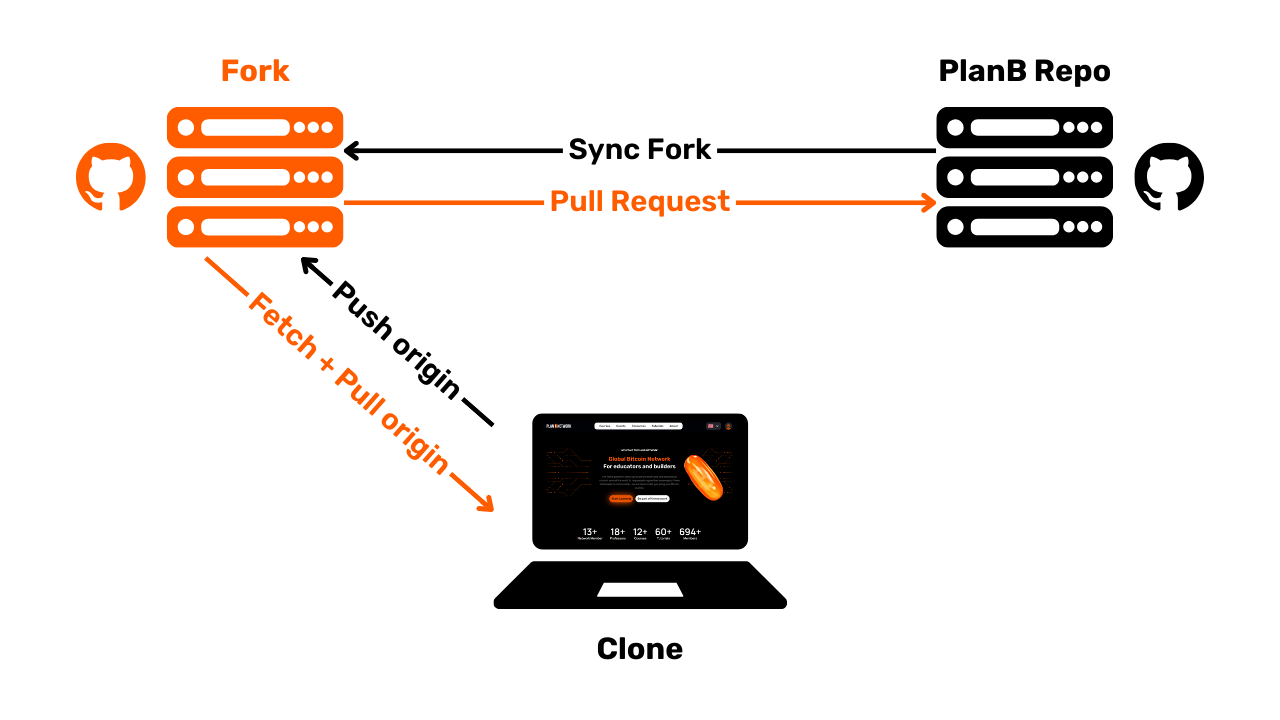
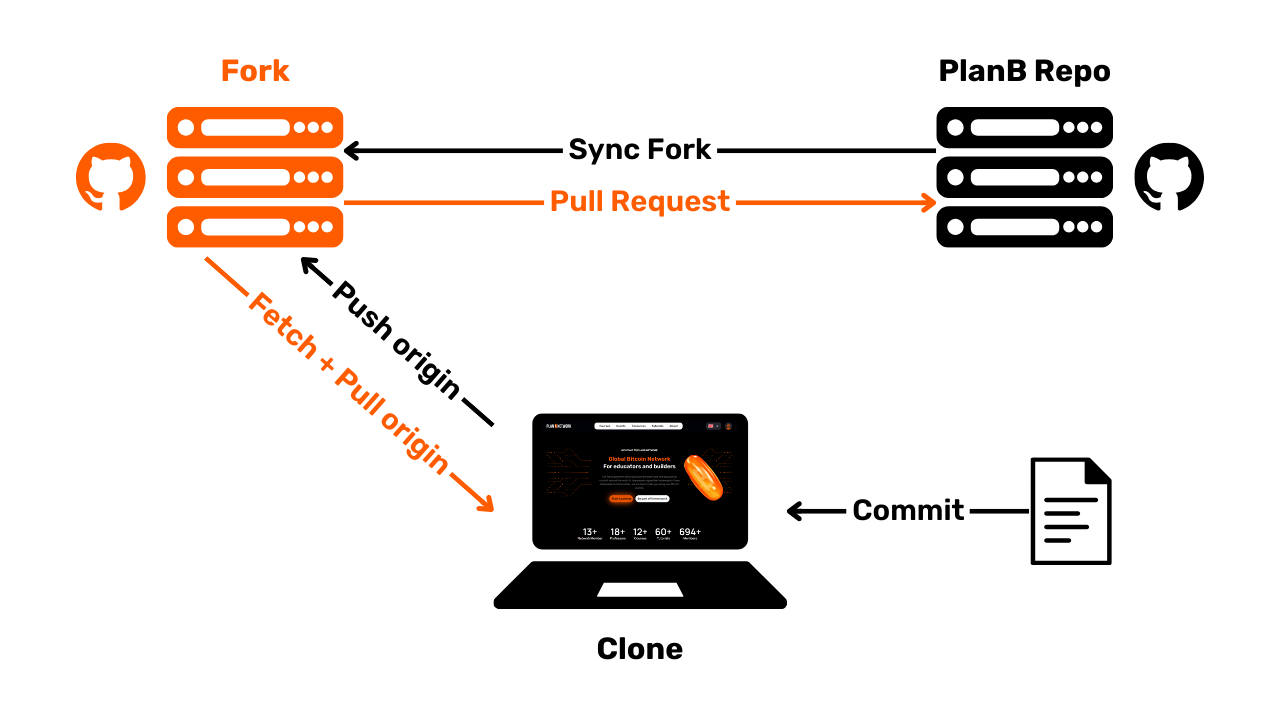
Tutorial - Git and GitHub basics + glossary
ok - terminé

Changed region(s): [[0.5938, 0.6417, 0.875, 0.7944], [0.8125, 0.6111, 0.8438, 0.6417]]

diff --git a/tutorials/others/basics-of-github/fr.md b/tutorials/others/basics-of-github/fr.md
@@ -1,0 +1,70 @@
+---
+name: Les bases de GitHub
+description: Comprendre les bases de Git et GitHub
+---
+
+![cover](assets/cover.webp)
+
+La mission de PlanB est de mettre à disposition des ressources éducatives de premier plan sur Bitcoin, et ce, dans un maximum de langues. L'intégralité des contenus publiés sur le site est open-source et est hébergée sur GitHub, ce qui offre la possibilité à quiconque de participer à l'enrichissement de la plateforme. Les contributions peuvent prendre diverses formes : correction et relecture des textes existants, traduction dans d'autres langues, mise à jour des informations ou encore création de nouveaux tutoriels encore absents de notre site.
+
+Si vous désirez apporter votre pierre à l'édifice PlanB Network, vous allez devoir utiliser Git et GitHub. Si vous n'avez jamais entendu parler de ces choses ou que leur fonctionnement est encore assez flou pour vous, cet article est fait pour vous ! Nous allons revoir ensemble les bases de Git et GitHub ainsi que les termes techniques utilisés sur ces systèmes afin que vous puissiez par la suite faire vos premiers pas avec ces outils.
+
+Si vous souhaitez contribuer à PlanB Network, vous devrez utiliser Git et GitHub. Si ces outils vous sont inconnus ou si leur fonctionnement vous semble obscur, pas de panique, cet article est fait pour vous ! Nous allons revoir ensemble les fondamentaux de Git et de GitHub, ainsi que le jargon technique associé, pour vous permettre par la suite de prendre en main ces outils efficacement.
+
+## C'est quoi Git ?
+
+Git est un système de contrôle de version, spécialement conçu pour gérer des projets logiciels. Créé en 2005 par Linus Torvalds, Git est rapidement devenu la norme dans l'industrie du développement de logiciels pour le contrôle de version. Mais qu'est-ce que cela signifie exactement ?
+![git](assets/1.webp)
+À la base, Git permet aux développeurs de suivre les modifications apportées au code source d'un projet au fil du temps. Cela signifie qu'à chaque changement dans le code, Git enregistre une nouvelle version du projet. Si une erreur survient ou si une fonctionnalité expérimentale ne fonctionne pas comme prévu, il est possible de revenir à un état antérieur du code, comme une sorte de machine à remonter le temps pour les fichiers.
+
+Une des fonctionnalités clés de Git est la gestion des branches. Une branche est une sorte de ligne parallèle de développement où les développeurs peuvent travailler indépendamment du reste du projet. Cela facilite grandement l'ajout de nouvelles fonctionnalités ou la correction de bugs sans perturber le code principal. Une fois les modifications testées et validées, elles peuvent être fusionnées avec la branche principale.
+
+Une des particularités de Git est sa capacité à fonctionner de manière distribuée. Chaque développeur possède une copie complète du projet sur le disque dur de son propre ordinateur, ce qui permet de travailler hors ligne et de fusionner les changements plus tard, lorsqu'une connexion Internet est disponible. Cela réduit le risque de conflits et permet à plusieurs développeurs de travailler simultanément sur le même projet sans se marcher sur les pieds.
+
+Initialement, Git est donc principalement pensé pour les projets de développement logiciel. Cependant, il peut tout aussi bien servir à gérer des projets de rédaction de contenu. Plutôt que de collaborer sur du code, nous collaborons sur du texte. Et c'est justement cette méthode que PlanB Network a adoptée pour gérer ses contenus ! Git nous facilite la collaboration sur la rédaction de contenus, car il permet un suivi précis des modifications, une gestion efficace des versions et permet également la revue et l'amélioration du contenu par d'autres contributeurs. 
+
+## C'est quoi GitHub ?
+
+GitHub est une plateforme de gestion et d'hébergement de code source qui repose sur le système de contrôle de version Git dont nous venons de parler. Lancée en 2008, GitHub a rapidement gagné en popularité et est devenue une référence incontournable pour les développeurs du monde entier. Mais en quoi GitHub se distingue-t-il de Git et pourquoi est-il si essentiel dans notre méthode de production de contenu ?
+![github](assets/2.webp)
+Tout d'abord, il faut comprendre que GitHub repose sur Git (dont nous avons parlé dans la partie précédente). Alors que Git est l'outil qui permet de suivre les modifications du code, GitHub est le service en ligne qui permet d'héberger, de partager et de gérer ce code.
+
+Imaginez que Git est comme une sorte de carnet de bord que chaque développeur utilise sur son propre ordinateur pour enregistrer toutes les modifications de son projet. GitHub, quant à lui, est comme une bibliothèque publique où tous ces carnets de bord peuvent être partagés, comparés et combinés.
+
+La différence fondamentale entre Git et GitHub réside donc dans leur fonction : Git est l'outil utilisé localement par chaque développeur pour gérer les versions de leur code, tandis que GitHub est la plateforme en ligne qui héberge ces versions et facilite la collaboration.
+
+GitHub est donc bien plus qu'un simple hébergeur de code. C'est une plateforme de collaboration qui permet aux développeurs de travailler ensemble efficacement. Et justement, PlanB Network utilise cette plateforme pour héberger à la fois tout le code qui permet de faire tourner le site web, mais également, et c'est ce qui nous intéresse, tous les contenus (tutoriels, formations, ressources...).
+
+## Quelques termes techniques
+
+Sur Git et GitHub, vous rencontrerez des commandes et des fonctionnalités dont les noms peuvent sembler complexes. Dans cette dernière partie, je vous donne des définitions simples à comprendre des termes techniques que vous pourriez croiser lors de votre utilisation de Git et GitHub :
+
+- **Fetch origin :** Commande qui permet de récupérer les informations et les modifications récentes d'un dépôt distant sans les fusionner avec votre travail local. Elle met à jour votre dépôt local avec les nouvelles branches et les nouveaux commits présents sur le dépôt distant.
+
+- **Pull origin :** Commande qui permet de récupérer les mises à jour d'un dépôt distant et de les intégrer immédiatement à votre branche locale afin de la synchroniser. Cela combine les étapes de fetch et de merge en une seule commande.
+
+- **Sync Fork :** Fonctionnalité sur GitHub qui permet de mettre à jour votre fork d'un projet avec les dernières modifications du dépôt source. Cela assure que votre copie du projet reste à jour avec le développement principal.
+
+- **Push origin :** Commande qui sert à envoyer vos modifications locales à un dépôt distant.
+
+- **Pull Request :** Demande envoyée par un contributeur pour indiquer qu'il a poussé des modifications sur une branche dans un dépôt distant et qu'il souhaite que ces modifications soient examinées et potentiellement intégrées (merge) dans la branche principale du dépôt.
+
+- **Commit :** Sauvegarde de vos modifications. Un commit est comme une photo instantanée de votre travail à un moment donné, qui permet de garder un historique des changements. Chaque commit inclut un message descriptif expliquant ce qui a été modifié.
+
+- **Branche :** Version parallèle du dépôt, permettant de travailler sur des modifications sans affecter la branche principale (souvent appelée "main" ou "master"). Les branches facilitent le développement de nouvelles fonctionnalités et la correction de bugs sans risque de perturber le code stable.
+
+- **Merge :** Fusionner consiste à intégrer les modifications d'une branche dans une autre. On l'utilise, par exemple, pour ajouter les modifications d'une branche de travail sur la branche principale, ce qui permet d'ajouter les différentes contributions.
+
+- **Fork :** Faire un fork d'un dépôt consiste à créer une copie de ce dépôt sur votre propre compte GitHub, ce qui vous permet de travailler sur le projet sans affecter le dépôt original.
+
+- **Clone :** Cloner un dépôt signifie en faire une copie locale sur votre ordinateur, ce qui vous donne accès à tous les fichiers et à l'historique. Cela vous permet de travailler sur le projet directement en local.
+
+- **Repository :** Espace de stockage pour un projet sur GitHub. Un dépôt contient tous les fichiers du projet ainsi que l'historique de toutes les modifications qui y ont été apportées. C'est la base de stockage et de collaboration sur GitHub.
+
+- **Issue :** Outil de suivi des tâches et des bugs sur GitHub. Les issues permettent de signaler des problèmes, de proposer des améliorations ou de discuter de nouvelles fonctionnalités. Chaque issue peut être assignée, étiquetée et commentée.
+
+Cette liste n'est évidemment pas exhaustive. Il existe de nombreux autres termes techniques spécifiques à Git et GitHub. Cependant, ceux mentionnés ici sont les principaux que vous rencontrerez fréquemment.
+
+Après avoir lu cet article, il est possible que certains aspects de Git et GitHub restent encore flous pour vous. Je vous encourage à commencer à utiliser ces outils par vous-même. La pratique est souvent le meilleur moyen pour comprendre le fonctionnement de la machine ! Et pour commencer, vous pouvez découvrir ces 2 tutoriels :
+- **[Créer son compte GitHub](https://planb.network/fr/tutorials/others/create-github-account)**
+- **[Mettre en place son environnement local pour contribuer à PlanB Network](https://planb.network/fr/tutorials/others/github-desktop-work-environment)**
